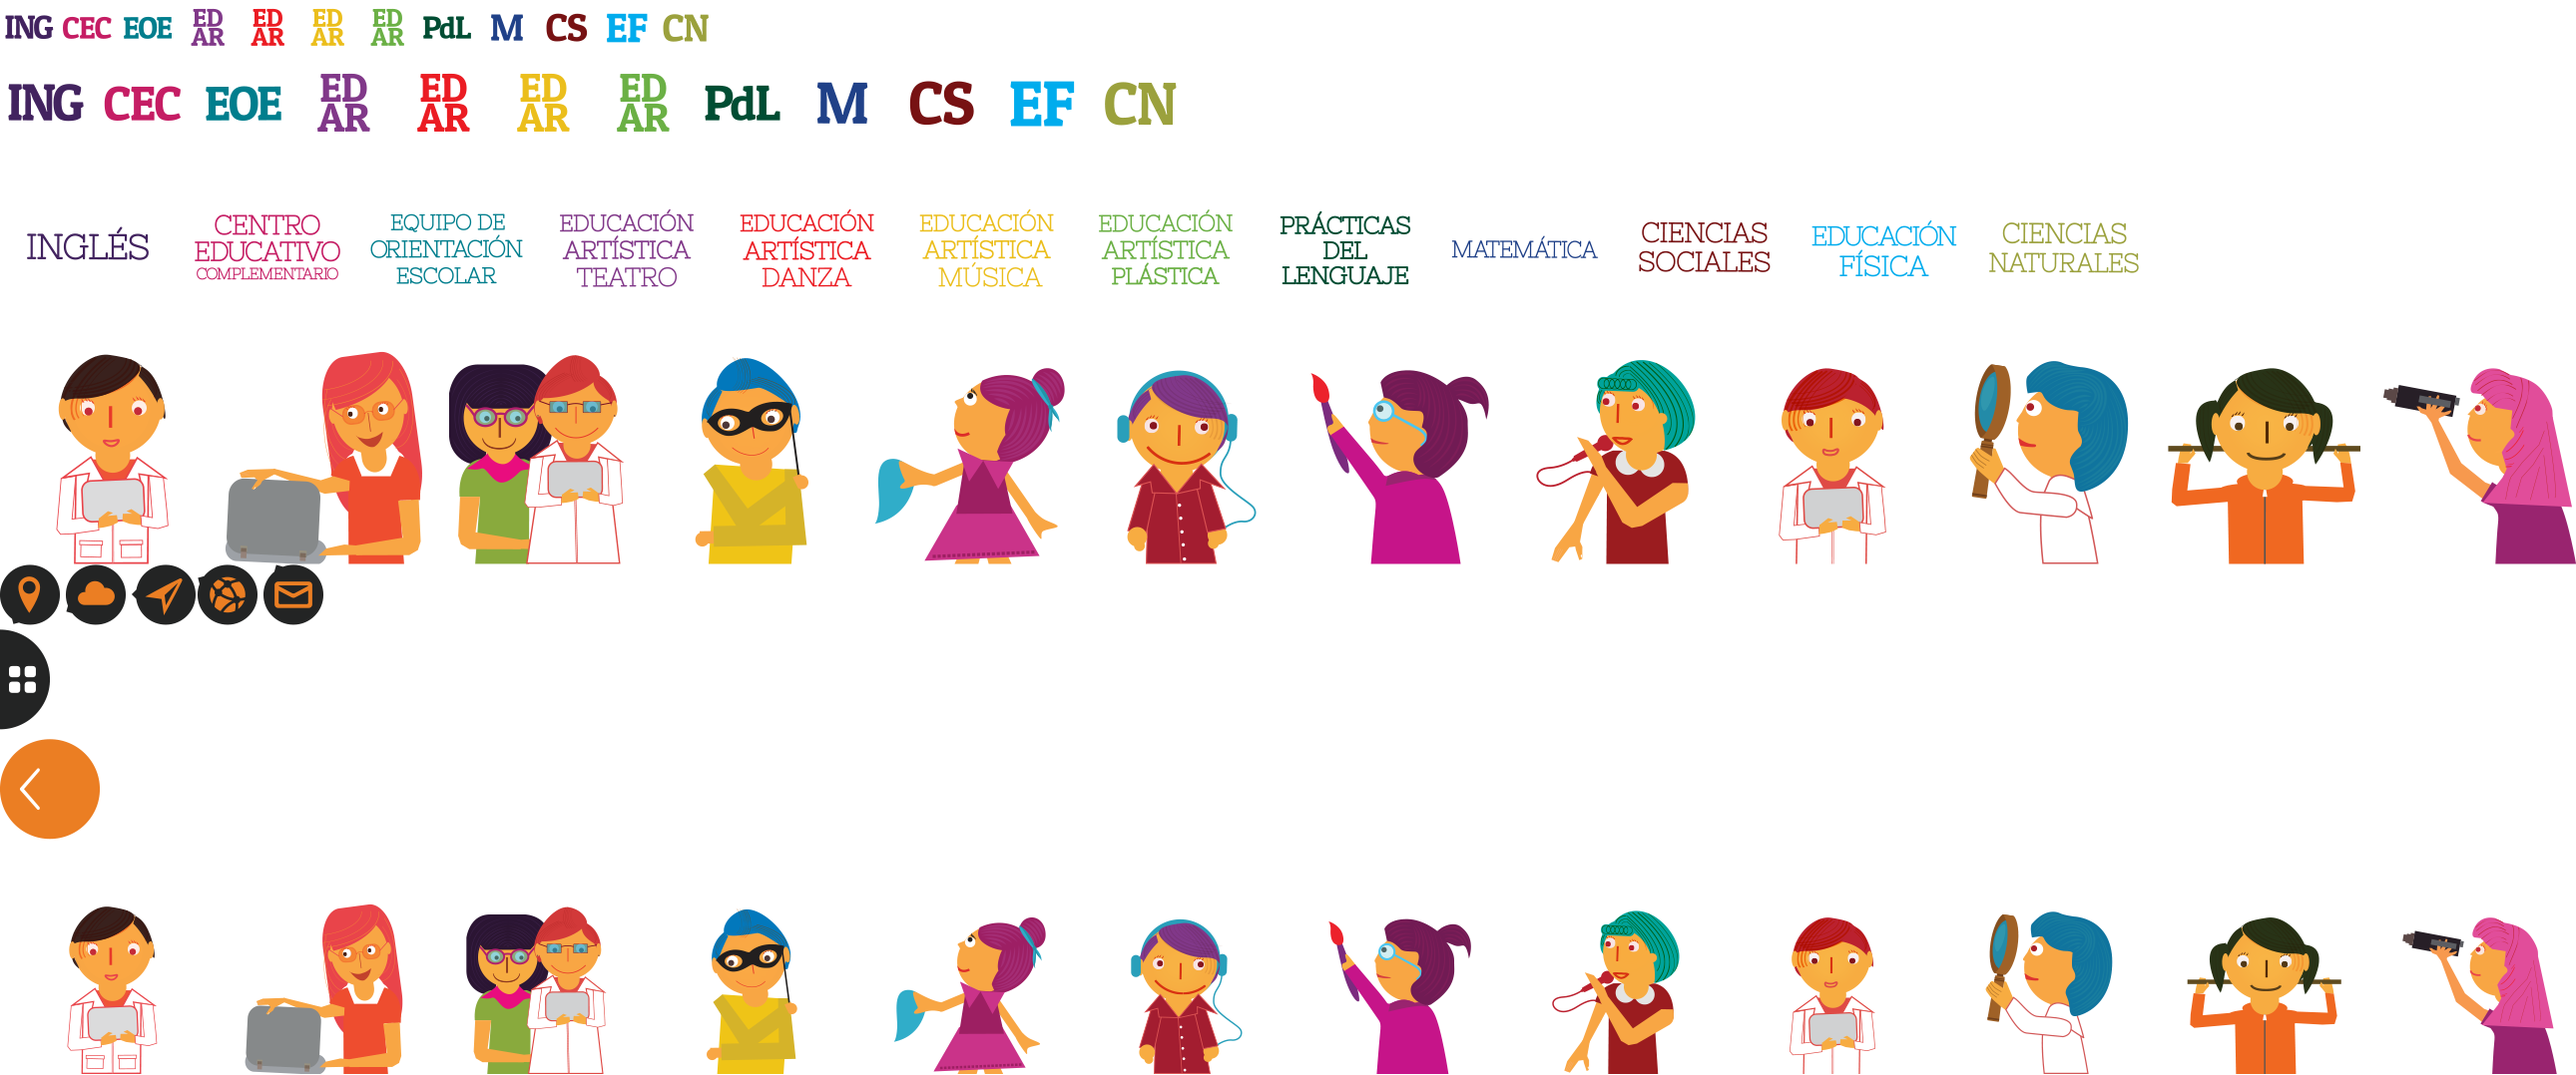
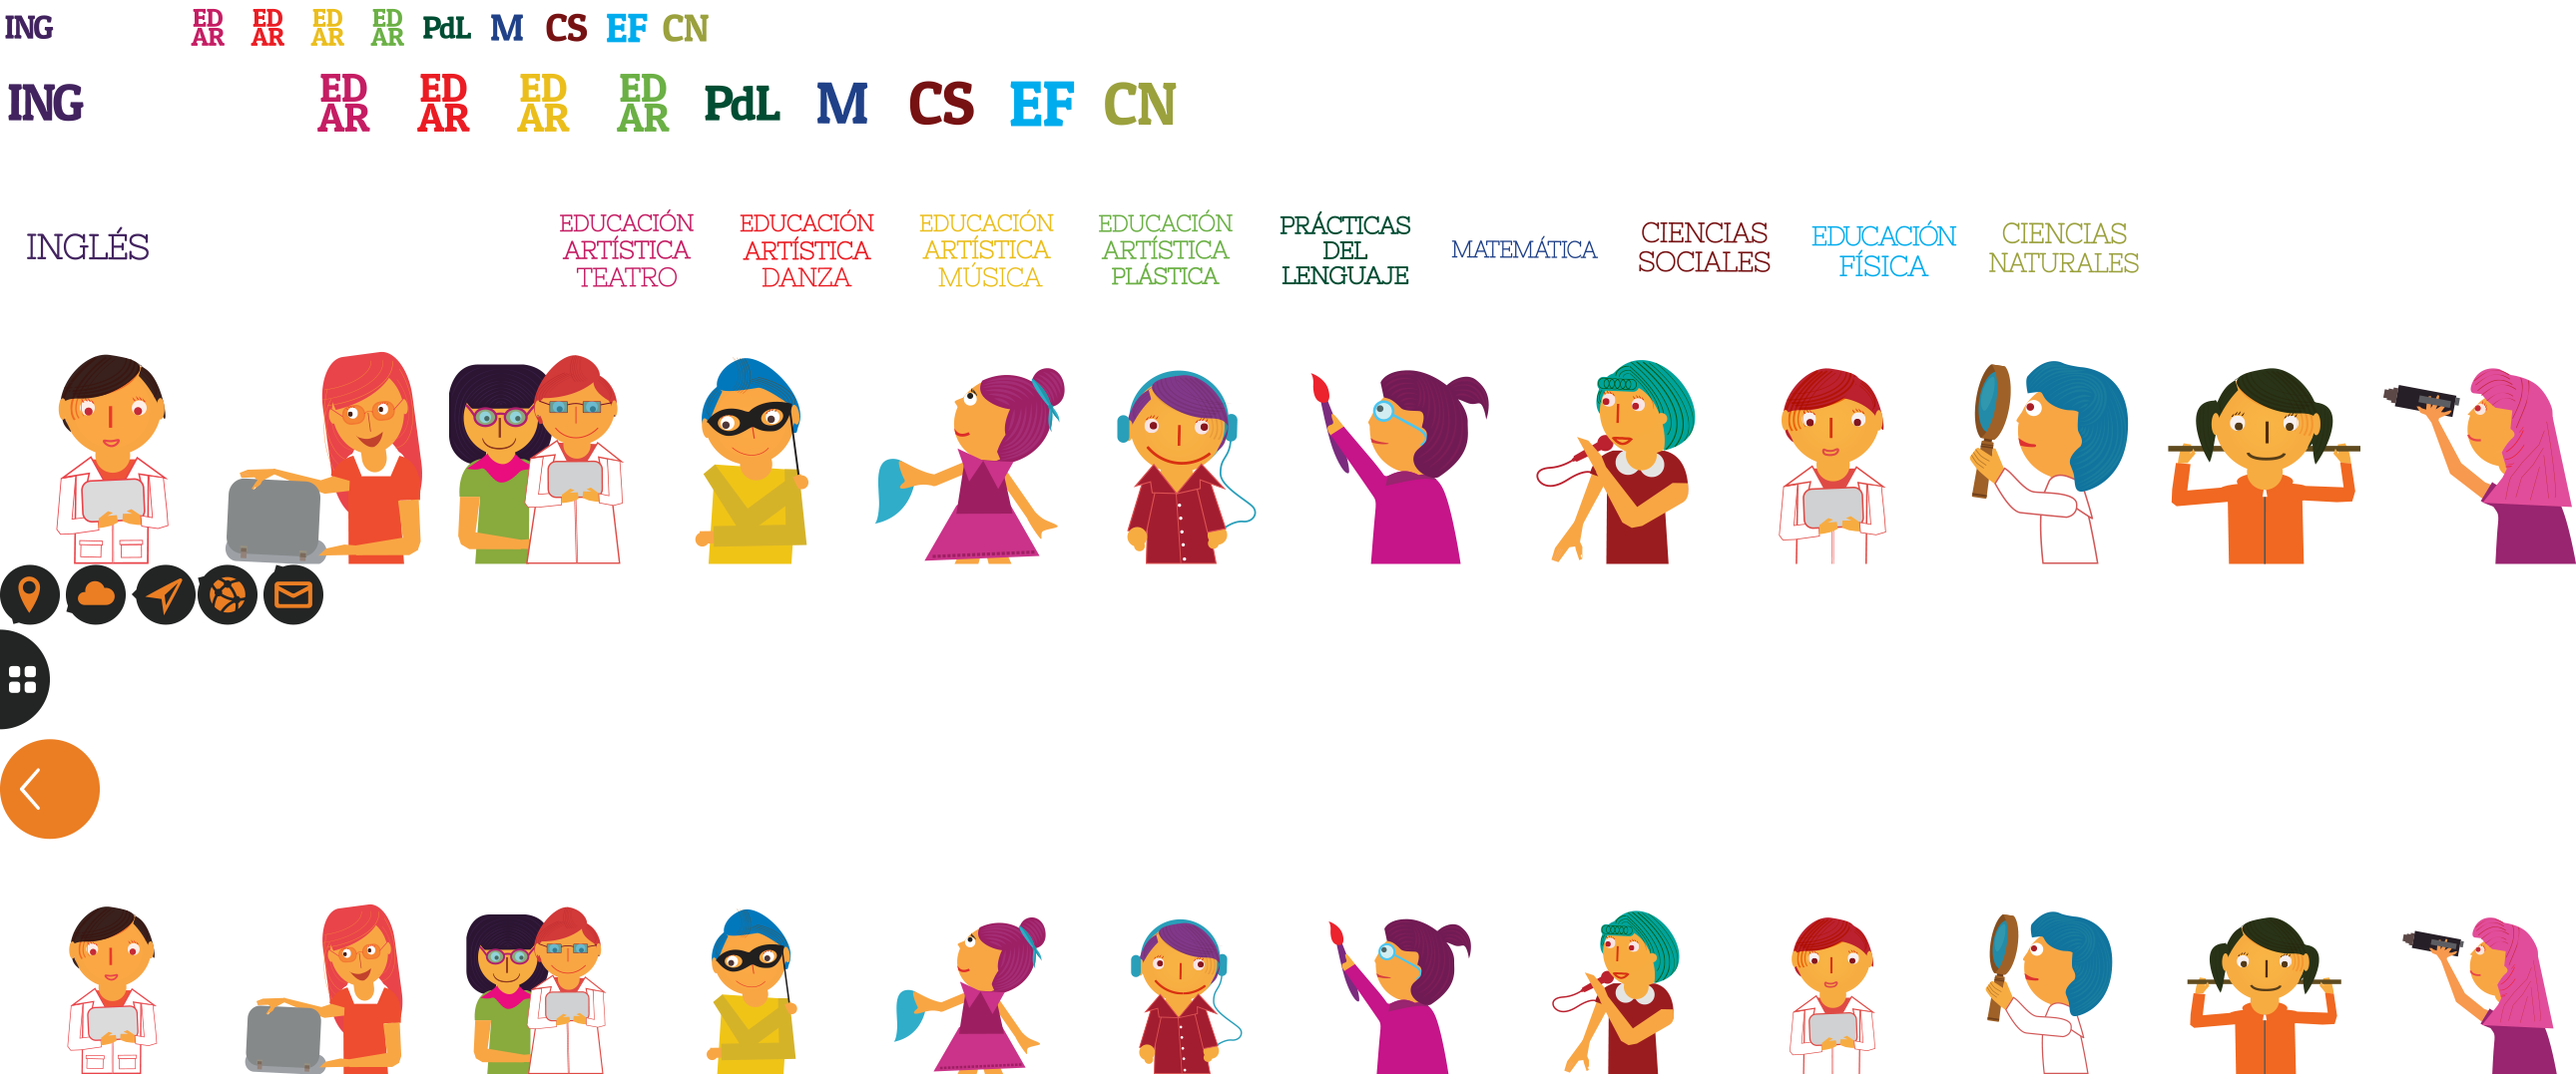
fix and new features

Changed region(s): [[0.062, 0.1837, 0.279, 0.2755], [0.031, 0.0, 0.155, 0.1224]]

diff --git a/public/pad/js/stats.js b/public/pad/js/stats.js
@@ -1,0 +1,84 @@
+/**
+ * The blocks page of PAD
+ */
+!function($, ko, _, Chart, window, undefined){
+  "use strict";
+
+  var vm = {
+    targets: ko.observableArray([]),
+    all: ko.observableArray([]),
+    total: ko.observable(0)
+  };
+
+  var alias = {
+    "Centros Educativos Complementarios": "CEC",
+    "Educación Artística - Plástica": "Ed. Artística - Plástica",
+    "Educación Artística - Música": "Ed. Artística - Música",
+    "Educación Artística - Danza": "Ed. Artística - Danza",
+    "Educación Artística - Teatro": "Ed. Artística - Teatro",
+    "Equipos de Orientación Escolar":  "EOE"
+  };
+
+  var colors = {
+    "CEC": "#ec7f24",
+    "Centros Educativos Complementarios": "#ec7f24",
+    "Ciencias Naturales": "#9ba23d",
+    "Ciencias Sociales": "#761113",
+    "Ed. Artística - Plástica": "#6bb144",
+    "Ed. Artística - Música": "#ebbf1c",
+    "Educación Artística - Música": "#ebbf1c",
+    "Ed. Artística - Danza": "#ed1c24",
+    "Ed. Artística - Teatro": "#c51d64",
+    "Educación Física": "#00adef",
+    "EOE": "#ec7f24",
+    "Equipos de Orientación Escolar": "#ec7f24",
+    "Inglés": "#41235f",
+    "Matemática": "#21418a",
+    "Prácticas del Lenguaje": "#004c33",
+    "Temas Transversales": "#ec7f24"
+  };
+
+  function draw(data) {
+
+    console.log(data);
+
+    var areas = Object.keys(colors);
+   
+    var currents = _.map(data.areas, function(a){ return a.name; });
+
+    var pieData = _.map(data.areas, function(a){
+      return {
+        caption: a.name,
+        value: a.length,
+        color: colors[a.name]
+      }
+    });
+   
+   var dif = _.difference(areas, currents);
+   
+   _.each(dif, function(a){
+      pieData.push({
+        caption: a,
+        value: 0,
+        color: colors[a]
+      });
+   });
+
+   vm.targets(pieData);
+   vm.all(data);
+   vm.total(data.total);
+
+   var myPie = new Chart($("#_chart")[0].getContext("2d")).Pie(pieData);
+  }
+
+  $(function(){
+
+    $.post('/stats', function(data){
+      draw(data);
+    });
+
+    ko.applyBindings(vm);
+
+  });
+
+}(jQuery, ko, _, Chart, window);

diff --git a/public/pad/css/pad.css b/public/pad/css/pad.css
@@ -131,19 +131,19 @@ body.loading .loading-wrap {
   color: #ffffff;
 }
 .bg-cec {
-  background-color: #c51d64;
+  background-color: #ec7f24;
 }
 .bg-cec p {
   color: #ffffff;
 }
 .bg-eoe {
-  background-color: #007f8e;
+  background-color: #ec7f24;
 }
 .bg-eoe p {
   color: #ffffff;
 }
 .bg-edart {
-  background-color: #81388a;
+  background-color: #c51d64;
 }
 .bg-edart p {
   color: #ffffff;
@@ -203,19 +203,19 @@ body.loading .loading-wrap {
   color: #ffffff;
 }
 .area-cec {
-  background-color: #c51d64;
+  background-color: #ec7f24;
 }
 .area-cec p {
   color: #ffffff;
 }
 .area-eoe {
-  background-color: #007f8e;
+  background-color: #ec7f24;
 }
 .area-eoe p {
   color: #ffffff;
 }
 .area-edart {
-  background-color: #81388a;
+  background-color: #c51d64;
 }
 .area-edart p {
   color: #ffffff;
@@ -281,19 +281,19 @@ html.area-ing body p {
   color: #ffffff;
 }
 html.area-cec body {
-  background-color: #c51d64;
+  background-color: #ec7f24;
 }
 html.area-cec body p {
   color: #ffffff;
 }
 html.area-eoe body {
-  background-color: #007f8e;
+  background-color: #ec7f24;
 }
 html.area-eoe body p {
   color: #ffffff;
 }
 html.area-edart body {
-  background-color: #81388a;
+  background-color: #c51d64;
 }
 html.area-edart body p {
   color: #ffffff;
@@ -639,7 +639,16 @@ p.ups-msg {
   position: absolute;
   right: 10px;
   top: 10px;
-  color: #eeebd5;
+  color: #242526;
+}
+.stats h2,
+.stats h4,
+.stats ul li,
+.stats p {
+  color: #242526;
+}
+.transversales h1 {
+  color: #242526;
 }
 html,
 body {

diff --git a/lib/pad/index.js b/lib/pad/index.js
@@ -53,8 +53,10 @@ module.exports = function(ops) {
   app.post('/filter', routes.filter);
   app.get('/arbor', routes.arbor);
   app.get('/nodes', routes.nodes);
-  app.get('/stats', routes.stats);
+  app.get('/stats', routes.stats.get);
+  app.post('/stats', routes.stats.post);
   app.get('/bienvenido/:view?', routes.bienvenido);
+  app.get('/transversales', routes.transversales);
     
   return app;
 
@@ -88,7 +90,7 @@ module.exports = function(ops) {
         return;
       }
 
-      res.download(filename);
+      res.sendFile(filename);
 
     });
   }

diff --git a/lib/pad/routes/stats.js b/lib/pad/routes/stats.js
@@ -1,9 +1,9 @@
 var _ = require('underscore');
 
 // GET /explorar
-module.exports = stats;
+var stats = module.exports = {};
 
-function stats(req, res){
+stats.post = function(req, res){
 
     var repo = process.REPOSITORY;
 
@@ -14,7 +14,11 @@ function stats(req, res){
       res.json(st);
     });
 
-}
+};
+
+stats.get = function(req, res) {
+  res.render('stats');
+};
 
 function parseStats(pkgs) {
       var cts = pkgs.map(function(p){

diff --git a/public/pad/css/variables.less b/public/pad/css/variables.less
@@ -19,13 +19,13 @@
 @ing-color: #41235f;
 @ing-color-font: white;
 
-@cec-color: #c51d64;
+@cec-color: @ba-color;
 @cec-color-font: white;
 
-@eoe-color: #007f8e;
+@eoe-color: @ba-color;
 @eoe-color-font: white;
 
-@edart-color: #81388a;
+@edart-color: #c51d64;
 @edart-color-font: white;
 
 @edard-color: #ed1c24;

diff --git a/public/pad/css/elements.less b/public/pad/css/elements.less
@@ -697,5 +697,20 @@ p.ups-msg {
   position: absolute;
   right: 10px;
   top: 10px;
-  color: @pad-cream-color;
+  color: @black-color;
+}
+
+.stats {
+  h2,
+  h4,
+  ul li,
+  p {
+    color: @black-color;
+  }
+}
+
+.transversales {
+  h1 {
+    color: @black-color;
+  }
 }

diff --git a/public/pad/js/menu.roulette.js b/public/pad/js/menu.roulette.js
@@ -86,7 +86,7 @@
       // definicion del angulo 360 en Radianes
       var A360 = parseFloat(2*Math.PI);
 
-      var dif = parseFloat(A360/12);
+      var dif = parseFloat(A360/10);
 
       var angulo = initAngle + (dif*h) - Math.PI / 2;
       

diff --git a/lib/pad/routes/index.js b/lib/pad/routes/index.js
@@ -20,3 +20,5 @@ routes.arbor = require('./arbor.js');
 routes.nodes = require('./nodes.js');
 routes.stats = require('./stats.js');
 routes.bienvenido = require('./bienvenido.js');
+routes.transversales = require('./transversales.js');
+

diff --git a/lib/pad/routes/transversales.js b/lib/pad/routes/transversales.js
@@ -1,0 +1,4 @@
+var transversales = module.exports = function(req, res){
+
+  res.render('transversales');
+};
